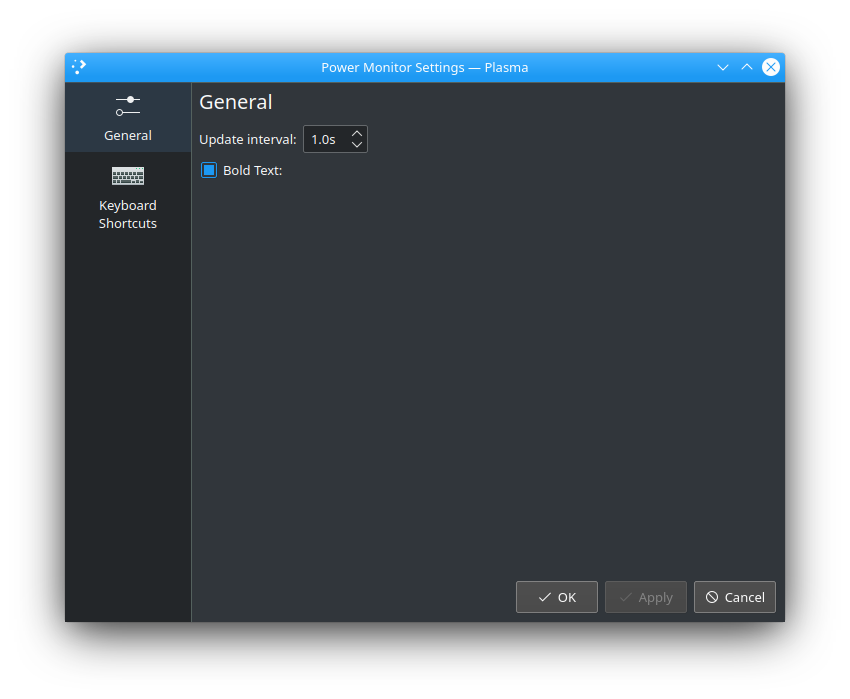
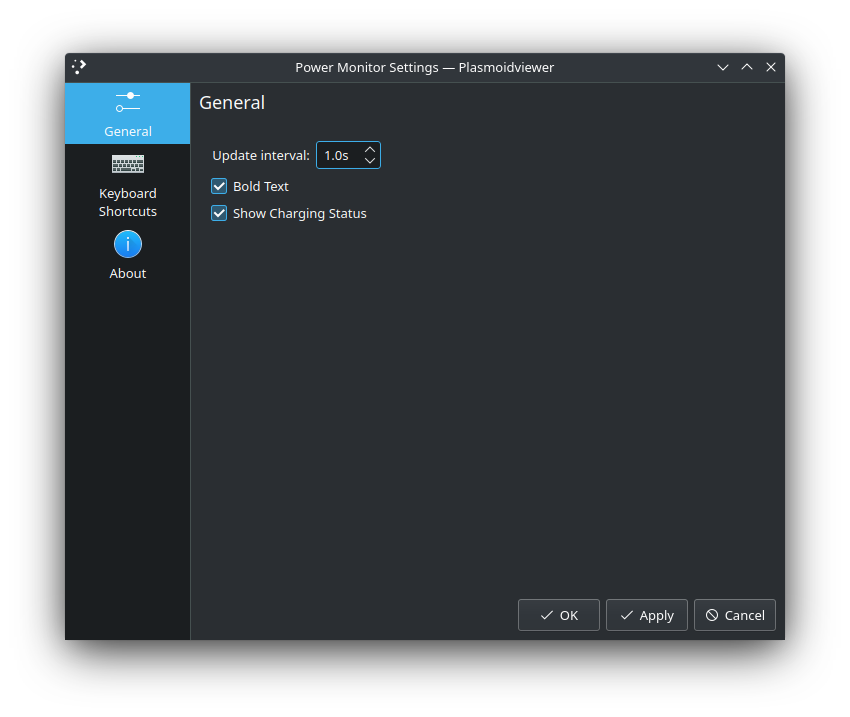
Adding support for dual batteries and charge status display feature

Changed region(s): [[0.0612, 0.0601, 0.9482, 0.3906], [0.5812, 0.8112, 0.9176, 0.9013], [0.2141, 0.8712, 0.2447, 0.9013]]

diff --git a/package/contents/ui/main.qml b/package/contents/ui/main.qml
@@ -24,43 +24,49 @@ import org.kde.plasma.plasmoid 2.0
 Item {
     id: main
     anchors.fill: parent
-    
+
     //height and width, when the widget is placed in desktop
-    width: 80
-    height: 20
+    width: 100
+    height: 40
 
     //height and width, when widget is placed in plasma panel
     Layout.preferredWidth: 80 * units.devicePixelRatio
-    Layout.preferredHeight: 20 * units.devicePixelRatio
+    Layout.preferredHeight: 40 * units.devicePixelRatio
 
     Plasmoid.preferredRepresentation: Plasmoid.fullRepresentation
 
-    property string batPath: getBatPath()
-    property bool powerNow: checkPowerNow(batPath)
-    property double power: getPower(batPath)
+    property var batteryObjects: getBatteryDirectoryPaths()
+    property double power: getPowerUsageOfAllBatteries(batteryObjects)
 
-    //this function tries to find the exact path to battery file
-    function getBatPath() {
+    //this function tries to get the directory paths to all the batteries
+    //present under /sys/class/power_supply
+    function getBatteryDirectoryPaths() {
+        var batteryObjects = []
         for(var i=0; i<4; i++) {
-            var path = "/sys/class/power_supply/BAT" + i + "/voltage_now";
+            var path = "/sys/class/power_supply/BAT" + i + "/present";
             var req = new XMLHttpRequest();
             req.open("GET", path, false);
             req.send(null)
-            if(req.responseText != "") {
-                //console.log(path)
-                return "/sys/class/power_supply/BAT" + i;
+
+            if(req.responseText == "1\n") {
+                var directoryUrl =  "/sys/class/power_supply/BAT" + i;
+
+                var battery = {
+                    directoryUrl: directoryUrl,
+                    powerNowFileExists: checkPowerNowFileExists(directoryUrl)
+                }
+
+                batteryObjects.push(battery)
             }
         }
-        return ""
+
+        return batteryObjects
     }
 
     //this function checks if the "/sys/class/power_supply/BAT[i]/power_now" file exists
-    function checkPowerNow(fileUrl) {
-        if(fileUrl == "") {
-            return false
-        }
+    function checkPowerNowFileExists(batteryDirectoryUrl) {
 
-        var path = fileUrl + "/power_now"
+        var path = batteryDirectoryUrl + "/power_now"
         var req = new XMLHttpRequest();
 
         req.open("GET", path, false);
@@ -74,18 +80,27 @@ Item {
         }
     }
 
-    //Returns power usage in Watts, rounded off to 1 decimal.
-    function getPower(fileUrl) {
-        //if there is no BAT[i] file at all
-        if(fileUrl == "") {
+    function getPowerUsageOfAllBatteries(batteries) {
+        var powerConsumed = 0.0;
+        if(batteries.length == 0) {
             return "0.0"
         }
 
+        for (var batteryIndex = 0; batteryIndex < batteries.length; batteryIndex++) {
+            powerConsumed = powerConsumed + getPowerUsage(batteries[batteryIndex]);
+        }
+
+        return powerConsumed
+    }
+
+    //Returns power usage of the battery passed as argument in Watts, rounded off to 1 decimal.
+    function getPowerUsage(battery) {
+
         //in case the "power_now" file exists:
-        if( main.powerNow == true) {
-            var path = fileUrl + "/power_now"
+        if (battery.powerNowFileExists == true) {
+            var powerNowFileUrl = battery.directoryUrl + "/power_now"
             var req = new XMLHttpRequest();
-            req.open("GET", path, false);
+            req.open("GET", powerNowFileUrl, false);
             req.send(null);
 
             var power = parseInt(req.responseText) / 1000000;
@@ -94,8 +109,8 @@ Item {
 
         //if the power_now file doesn't exist, we collect voltage
         //and current and manually calculate power consumption
-        var curUrl = fileUrl + "/current_now"
-        var voltUrl = fileUrl + "/voltage_now"
+        var curUrl = battery.directoryUrl + "/current_now"
+        var voltUrl = battery.directoryUrl + "/voltage_now"
 
         var curReq = new XMLHttpRequest();
         var voltReq = new XMLHttpRequest();
@@ -107,8 +122,25 @@ Item {
         voltReq.send(null);
 
         var power = (parseInt(curReq.responseText) * parseInt(voltReq.responseText))/1000000000000;
-        //console.log(power.toFixed(1));
         return Math.round(power*10)/10; //toFixed() is apparently slow, so we use this way
+    }
+
+    // adds a 🗲 symbol if any of the batteries in the laptop are charging
+    function chargingStatusText() {
+        if (plasmoid.configuration.showChargingStatus == true) {
+            for (var batteryIndex = 0; batteryIndex < main.batteryObjects.length; batteryIndex++) {
+                var path = batteryObjects[batteryIndex].directoryUrl + "/status"
+                var req = new XMLHttpRequest();
+                req.open("GET", path, false);
+                req.send(null);
+
+                if (req.responseText == "Charging\n") {
+                    return " 🗲";
+                }
+            }
+        }
+
+        return "";
     }
 
     PlasmaComponents.Label {
@@ -124,10 +156,10 @@ Item {
 
         text: {
             if(Number.isInteger(main.power)) {
-                return(main.power + ".0 W");
+                return(main.power + ".0 W" + chargingStatusText());
             }
             else {
-                return(main.power + " W");
+                return(main.power + " W" + chargingStatusText());
             }
         }
 
@@ -142,17 +174,17 @@ Item {
         running: true
         repeat: true
         onTriggered: {
-            main.power = getPower(main.batPath)
+            main.power = getPowerUsageOfAllBatteries(main.batteryObjects)
             if(Number.isInteger(main.power)) {
                 //When power has 0 decimal places, it removes the decimal
                 //point inspite of power variable being double. This momentarily
                 //makes the font size bigger due to extra available space which
-                //does not look good. So we do this simple hack of manually adding 
+                //does not look good. So we do this simple hack of manually adding
                 //a .0 to number
-                display.text = main.power + ".0 W";
+                display.text = main.power + ".0 W" + chargingStatusText();
             }
             else {
-                display.text = main.power + " W"
+                display.text = main.power + " W" + chargingStatusText();
             }
         }
     }

diff --git a/package/contents/ui/ConfigGeneral.qml b/package/contents/ui/ConfigGeneral.qml
@@ -5,12 +5,13 @@ import QtQuick.Layouts 1.1
 Item {
     property alias cfg_updateInterval: updateInterval.value
     property alias cfg_makeFontBold: makeFontBold.checked
+    property alias cfg_showChargingStatus: showChargingStatus.checked
 
     ColumnLayout {
         RowLayout {
             Label {
                 id: updateIntervalLabel
-                text: i18n("Update interval:")
+                text: i18n(" Update interval:")
             }
             SpinBox {
                 id: updateInterval
@@ -22,8 +23,13 @@ Item {
         }
 
         CheckBox {
-            id: makeFontBold 
-            text: i18n("Bold Text:")
+            id: makeFontBold
+            text: i18n("Bold Text")
+        }
+
+        CheckBox {
+            id: showChargingStatus
+            text: i18n("Show Charging Status")
         }
     }
 }
